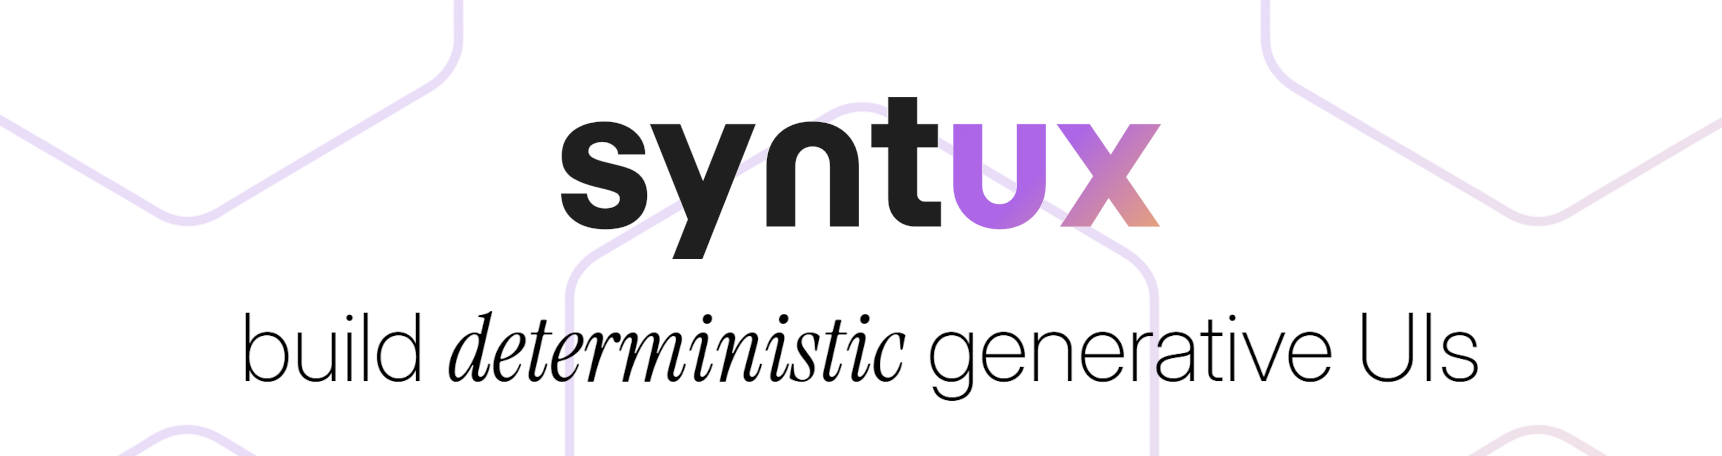
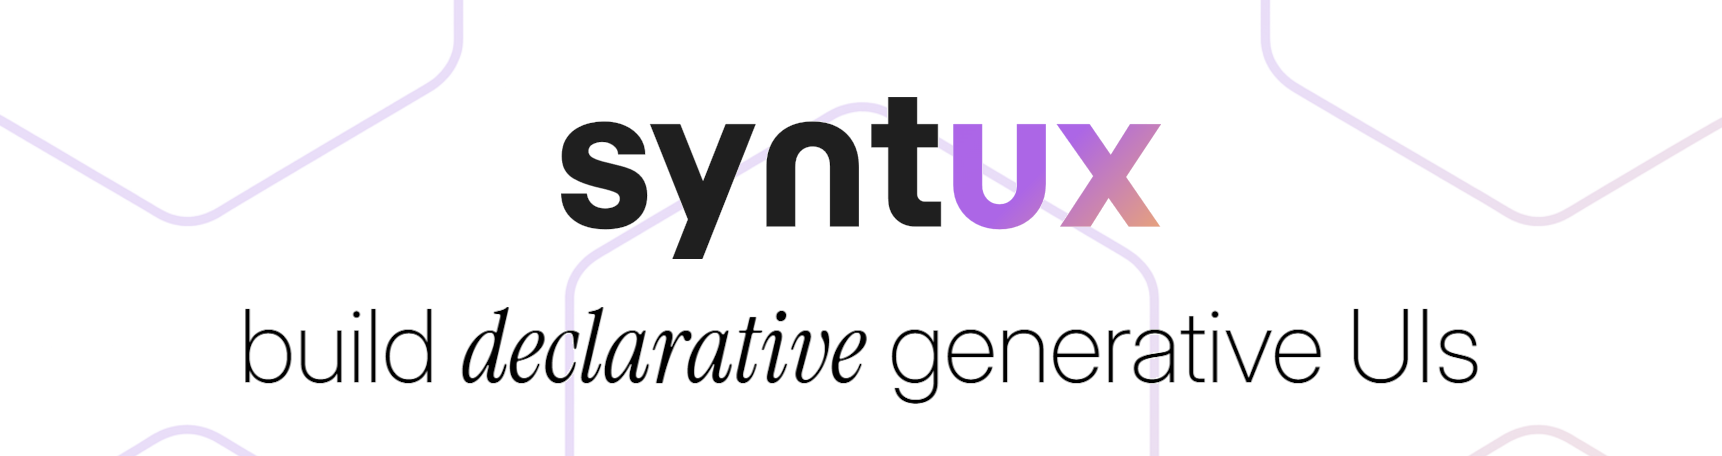
update wording

Changed region(s): [[0.1539, 0.6754, 0.8618, 0.8904]]

diff --git a/README.md b/README.md
@@ -1,7 +1,7 @@
 ![](https://raw.githubusercontent.com/puffinsoft/syntux/HEAD/docs/images/banner.png)
 
 <p align="center">
-<i>syntux</i> lets you build <b>personalized</b> generative UIs that are <i>secure</i> and <i>deterministic</i>.
+<i>syntux</i> lets you build <b>personalized</b> generative UIs that are <i>secure</i> and <i>declarative</i>.
 </p>
 
 ---
@@ -122,7 +122,7 @@ Profile.userContext = "Displays a small user profile"; // add further context
  
  Non-stateful components should be wrapped in stateful components, then passed to *syntux* to generate.
 
- Dynamic state generation violates the deterministic paradigm of <i>syntux</i>, and is thus not supported by design.
+ Dynamic state generation violates the semi-deterministic paradigm of <i>syntux</i>, and is thus not supported by design.
 </details>
 
 <details>
